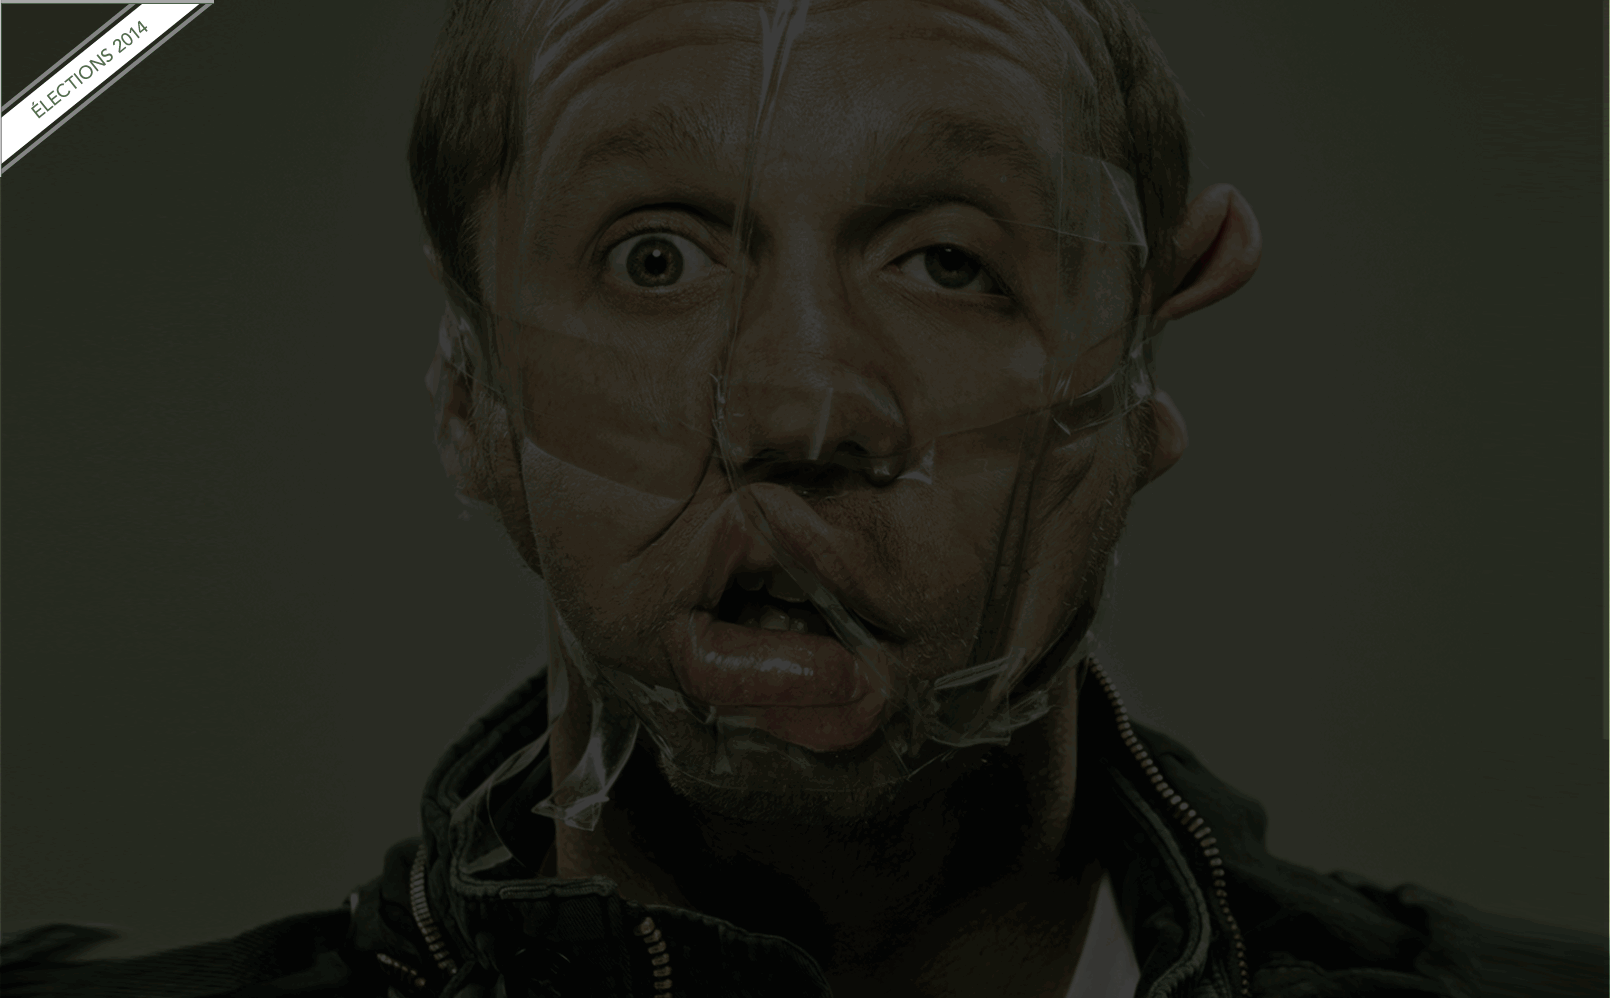
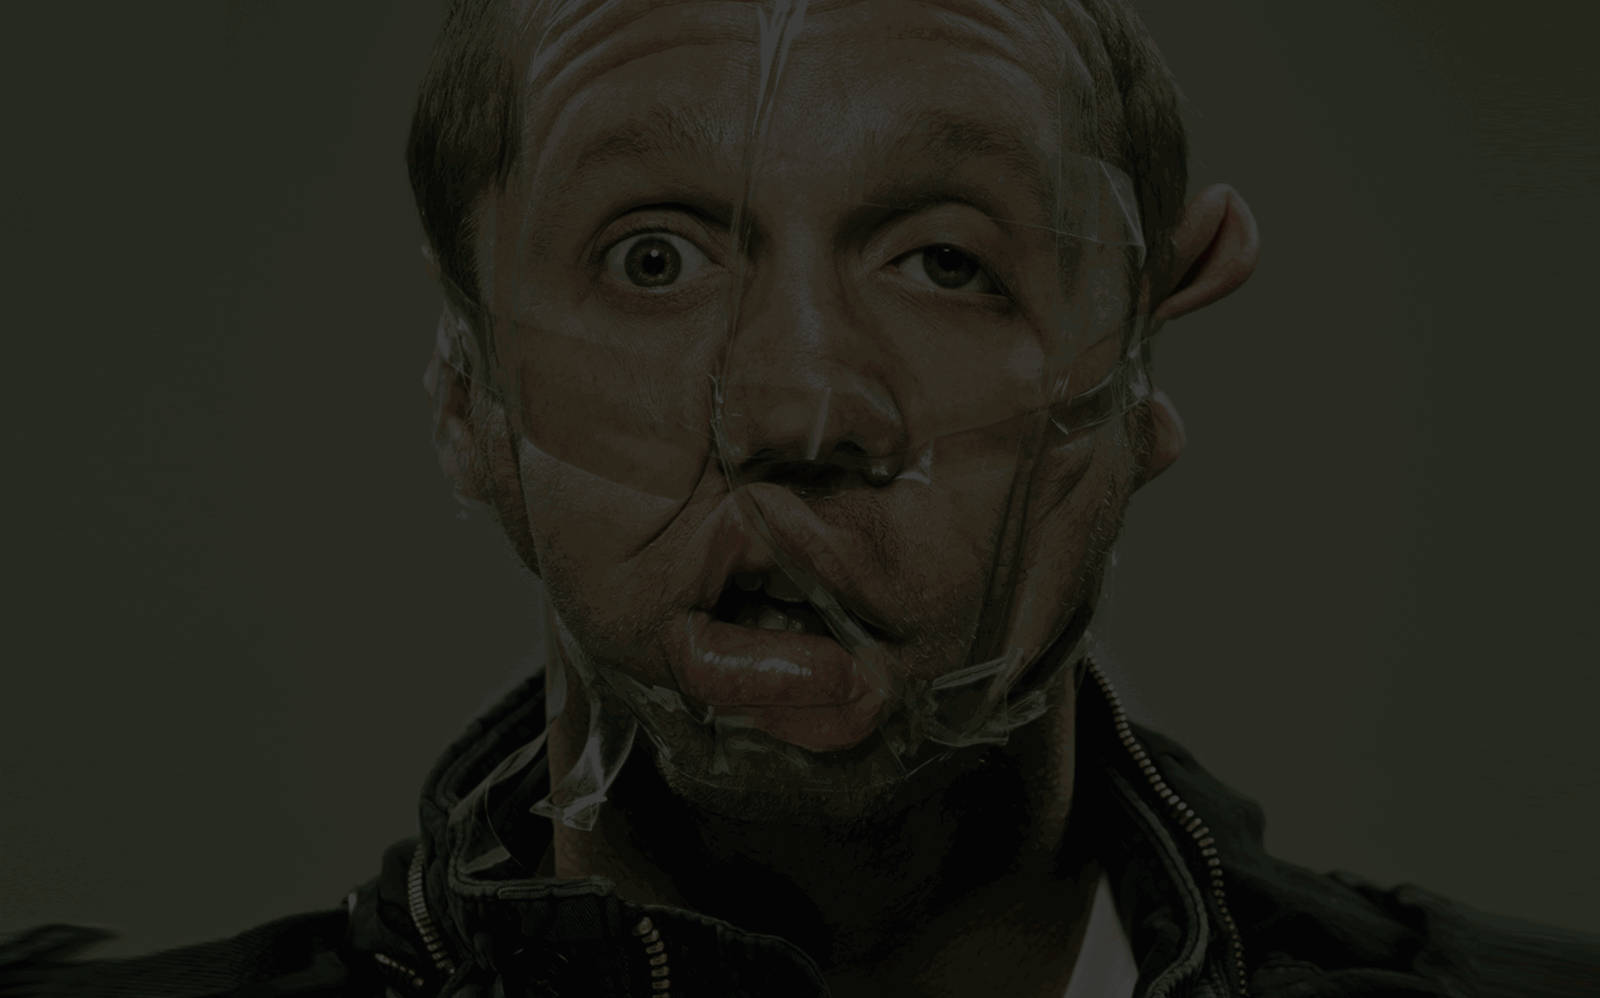
correxction intro

diff --git a/css/perso.less b/css/perso.less
@@ -7,8 +7,12 @@
 
 //Définitions générales
 body{
-  background:url('images/background.png')  #272a20 50% 0 no-repeat;
-  background-size: cover;
+  background-color:  #272a20;
+  background:url('images/background.png')  #272a20 50% 0 no-repeat;  
+  background-image: url("images/elections.png"), url('images/background.png'); 
+  background-position:  0 0,50% 0;
+  background-repeat: no-repeat;
+  background-size: auto,auto;
   background-attachment:fixed;
 }
 
@@ -16,7 +20,8 @@ h1, .h1, .h1-like{
   font-family: 'lobster', Arial, sans-serif;
   font-size: 4.5em;
   line-height: 1.2em; 
-  margin-top:0.5em; 
+  margin-top:0; 
+  margin-bottom: 0.414286em;
   font-weight:normal;
   }
 
@@ -66,6 +71,7 @@ h3,.h3,th{
     margin:0;
 }
 
+/*Menu horizontal*/
 #nav{
  overflow:hidden;
    position:relative;
@@ -73,11 +79,11 @@ h3,.h3,th{
    width:100%;   
   text-align:center;
   font-family: 'lobster', Arial, sans-serif;
-  font-size:1.6em;
+  font-size:1.4em;
   font-weight:normal;
   .menu-items{margin:0 auto;}
   li{margin: -1.2em 0.1em 0.1em;}
-  .logo{padding-top:-1.2em;width:7em}
+  .logo{padding:0 0.5em;width:7em}
   }
 
 #nav ul{
@@ -97,18 +103,18 @@ h3,.h3,th{
    padding:0;
    position:relative;
    right:50%;
-   width:9em
+   width:8em
    }
 }
 
 .navbar .nav{margin:0}
 
 .navbar .nav > li > a {
-    padding: 0s;
+    padding: 55px 0;
 
 }
 
-/*Menu*/
+
 .subMenu{
   width: 100%;
   position: relative !important;
@@ -139,20 +145,21 @@ ul.menu {
  .inner {
    background:#ffffff;padding: 1em 2.5em;
    .menu li{
-     width:@column}
+     width:@column;
+     line-height: 1.2em;}
    .nav_hor.parties{
      li{width:14.7%;}
      
-   }
+    }
    }
 
 
   /*Intro*/
   .section.intro{
-    margin-top:@navbarHeight;
+    margin-top:112px;
     color:white;
     text-align:center;
-    .descriptif_site{width:50%;margin:0 auto}
+    .descriptif_site{width:60%;margin:0 auto}
     a{color:#000000}
     .inner{background:transparent;}
     .nav_hor{
@@ -164,7 +171,7 @@ ul.menu {
    h2{
         font-family:@sansFontFamily; 
         color:#ffffff;
-        font-size: 1.6em;
+        font-size: 1.3em;
         margin: 0 0 -4px;
         text-align: left;
         text-transform: uppercase;
